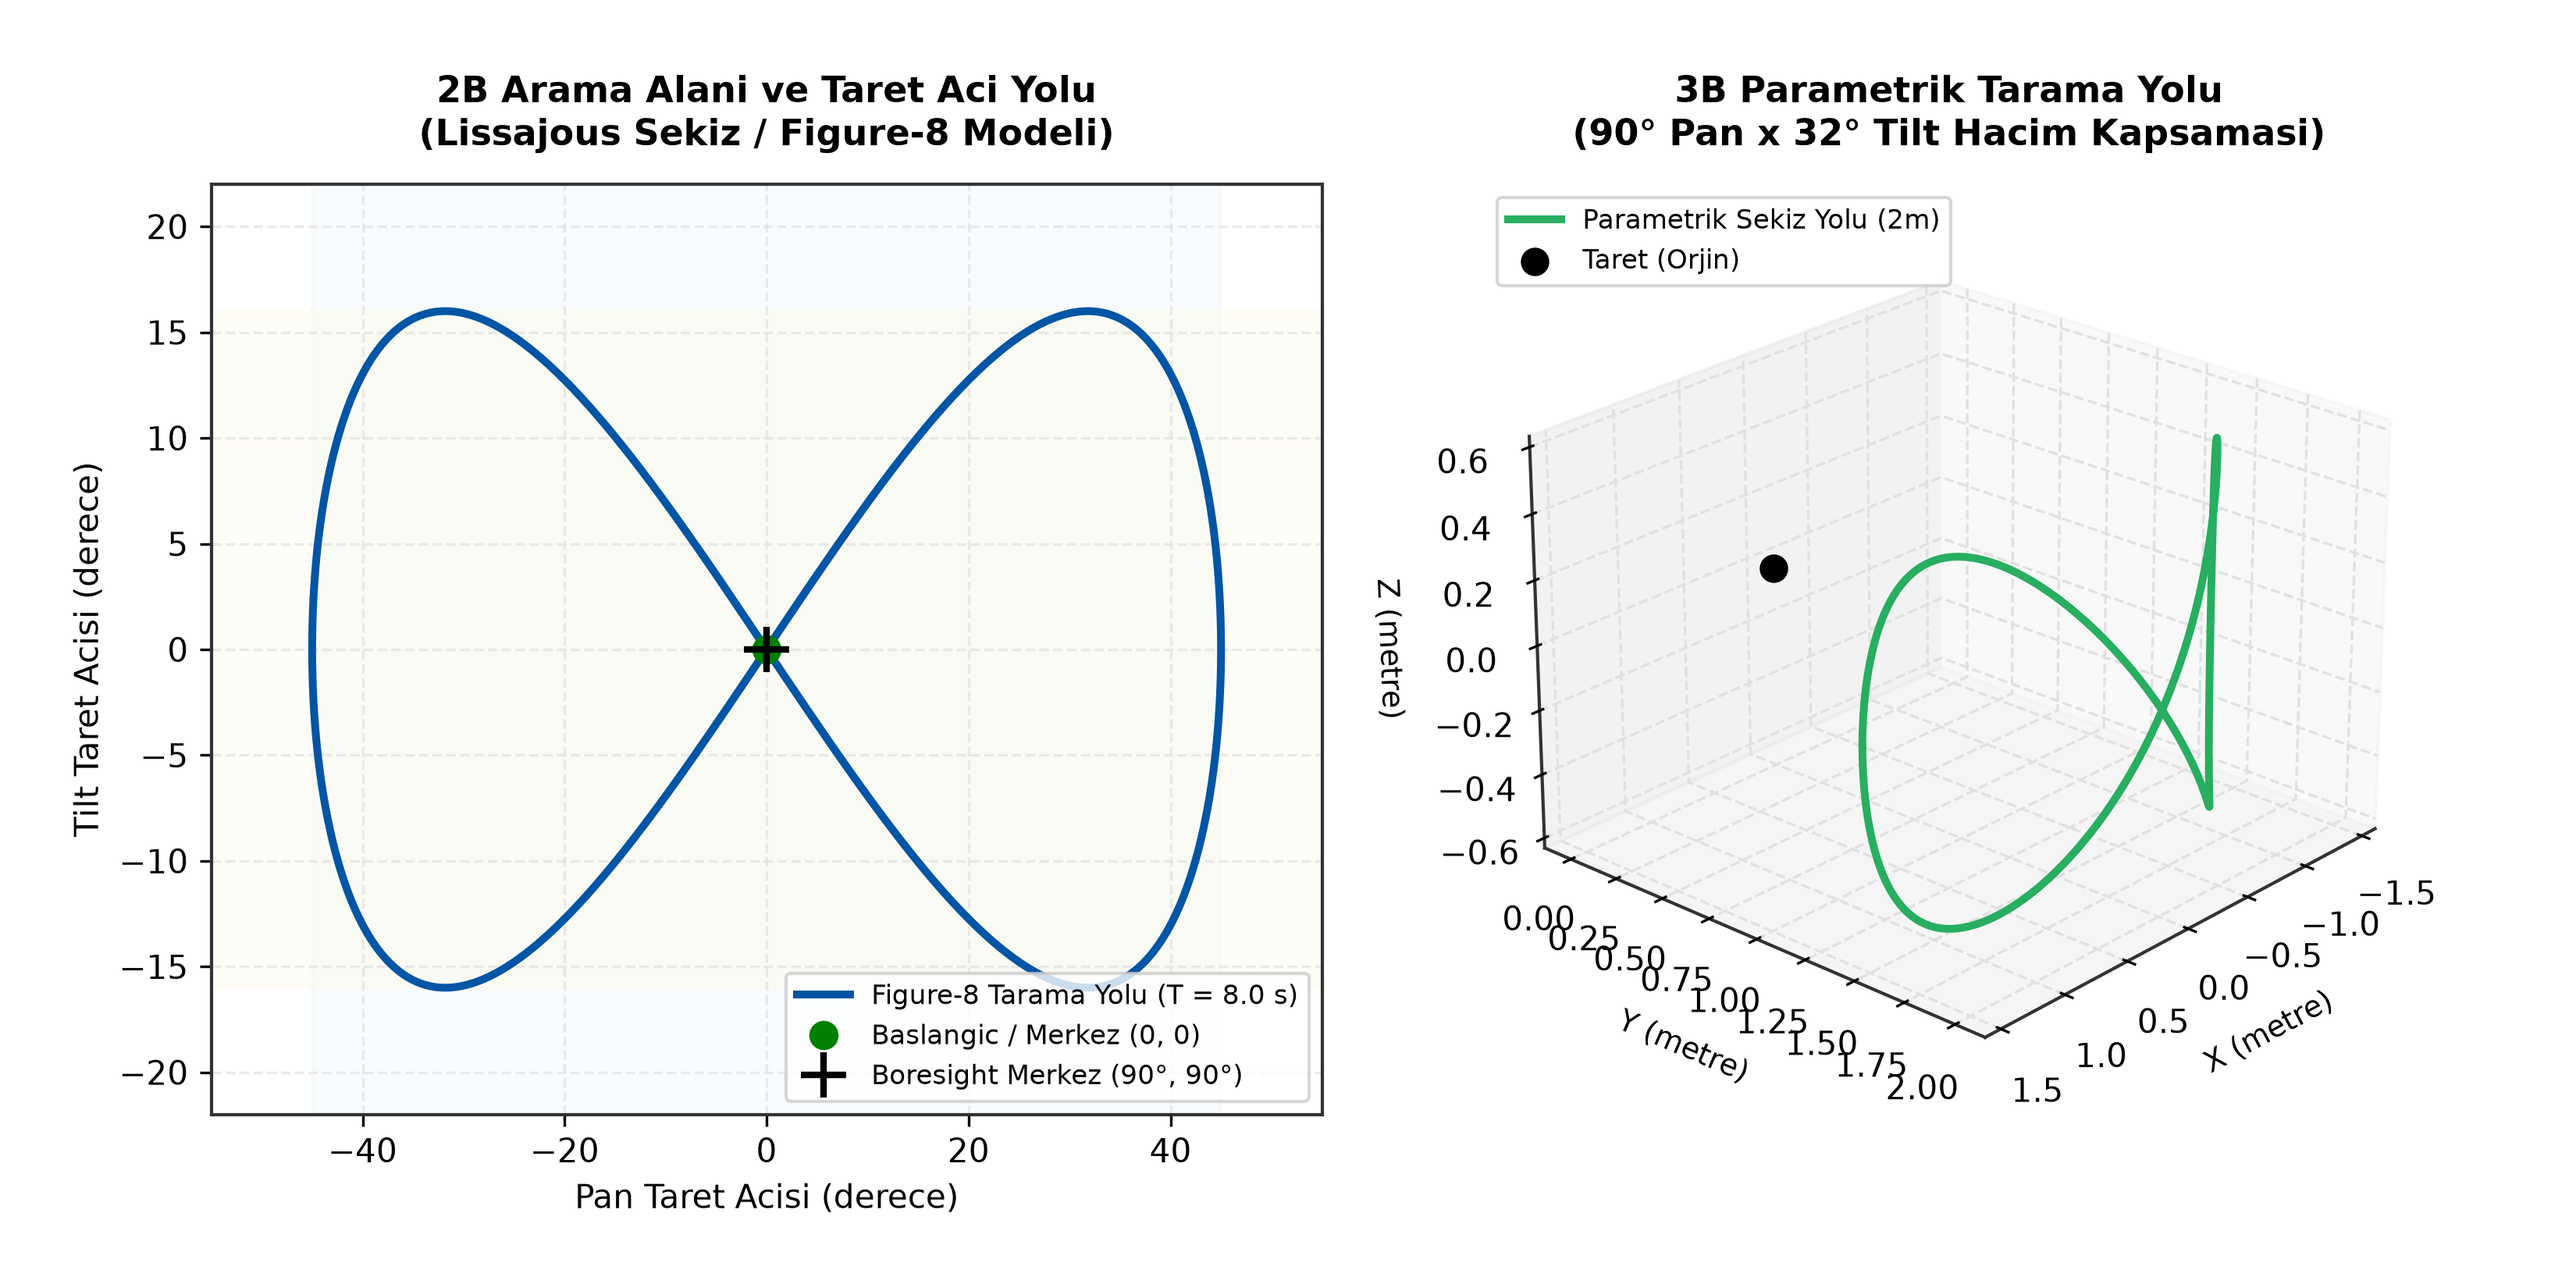
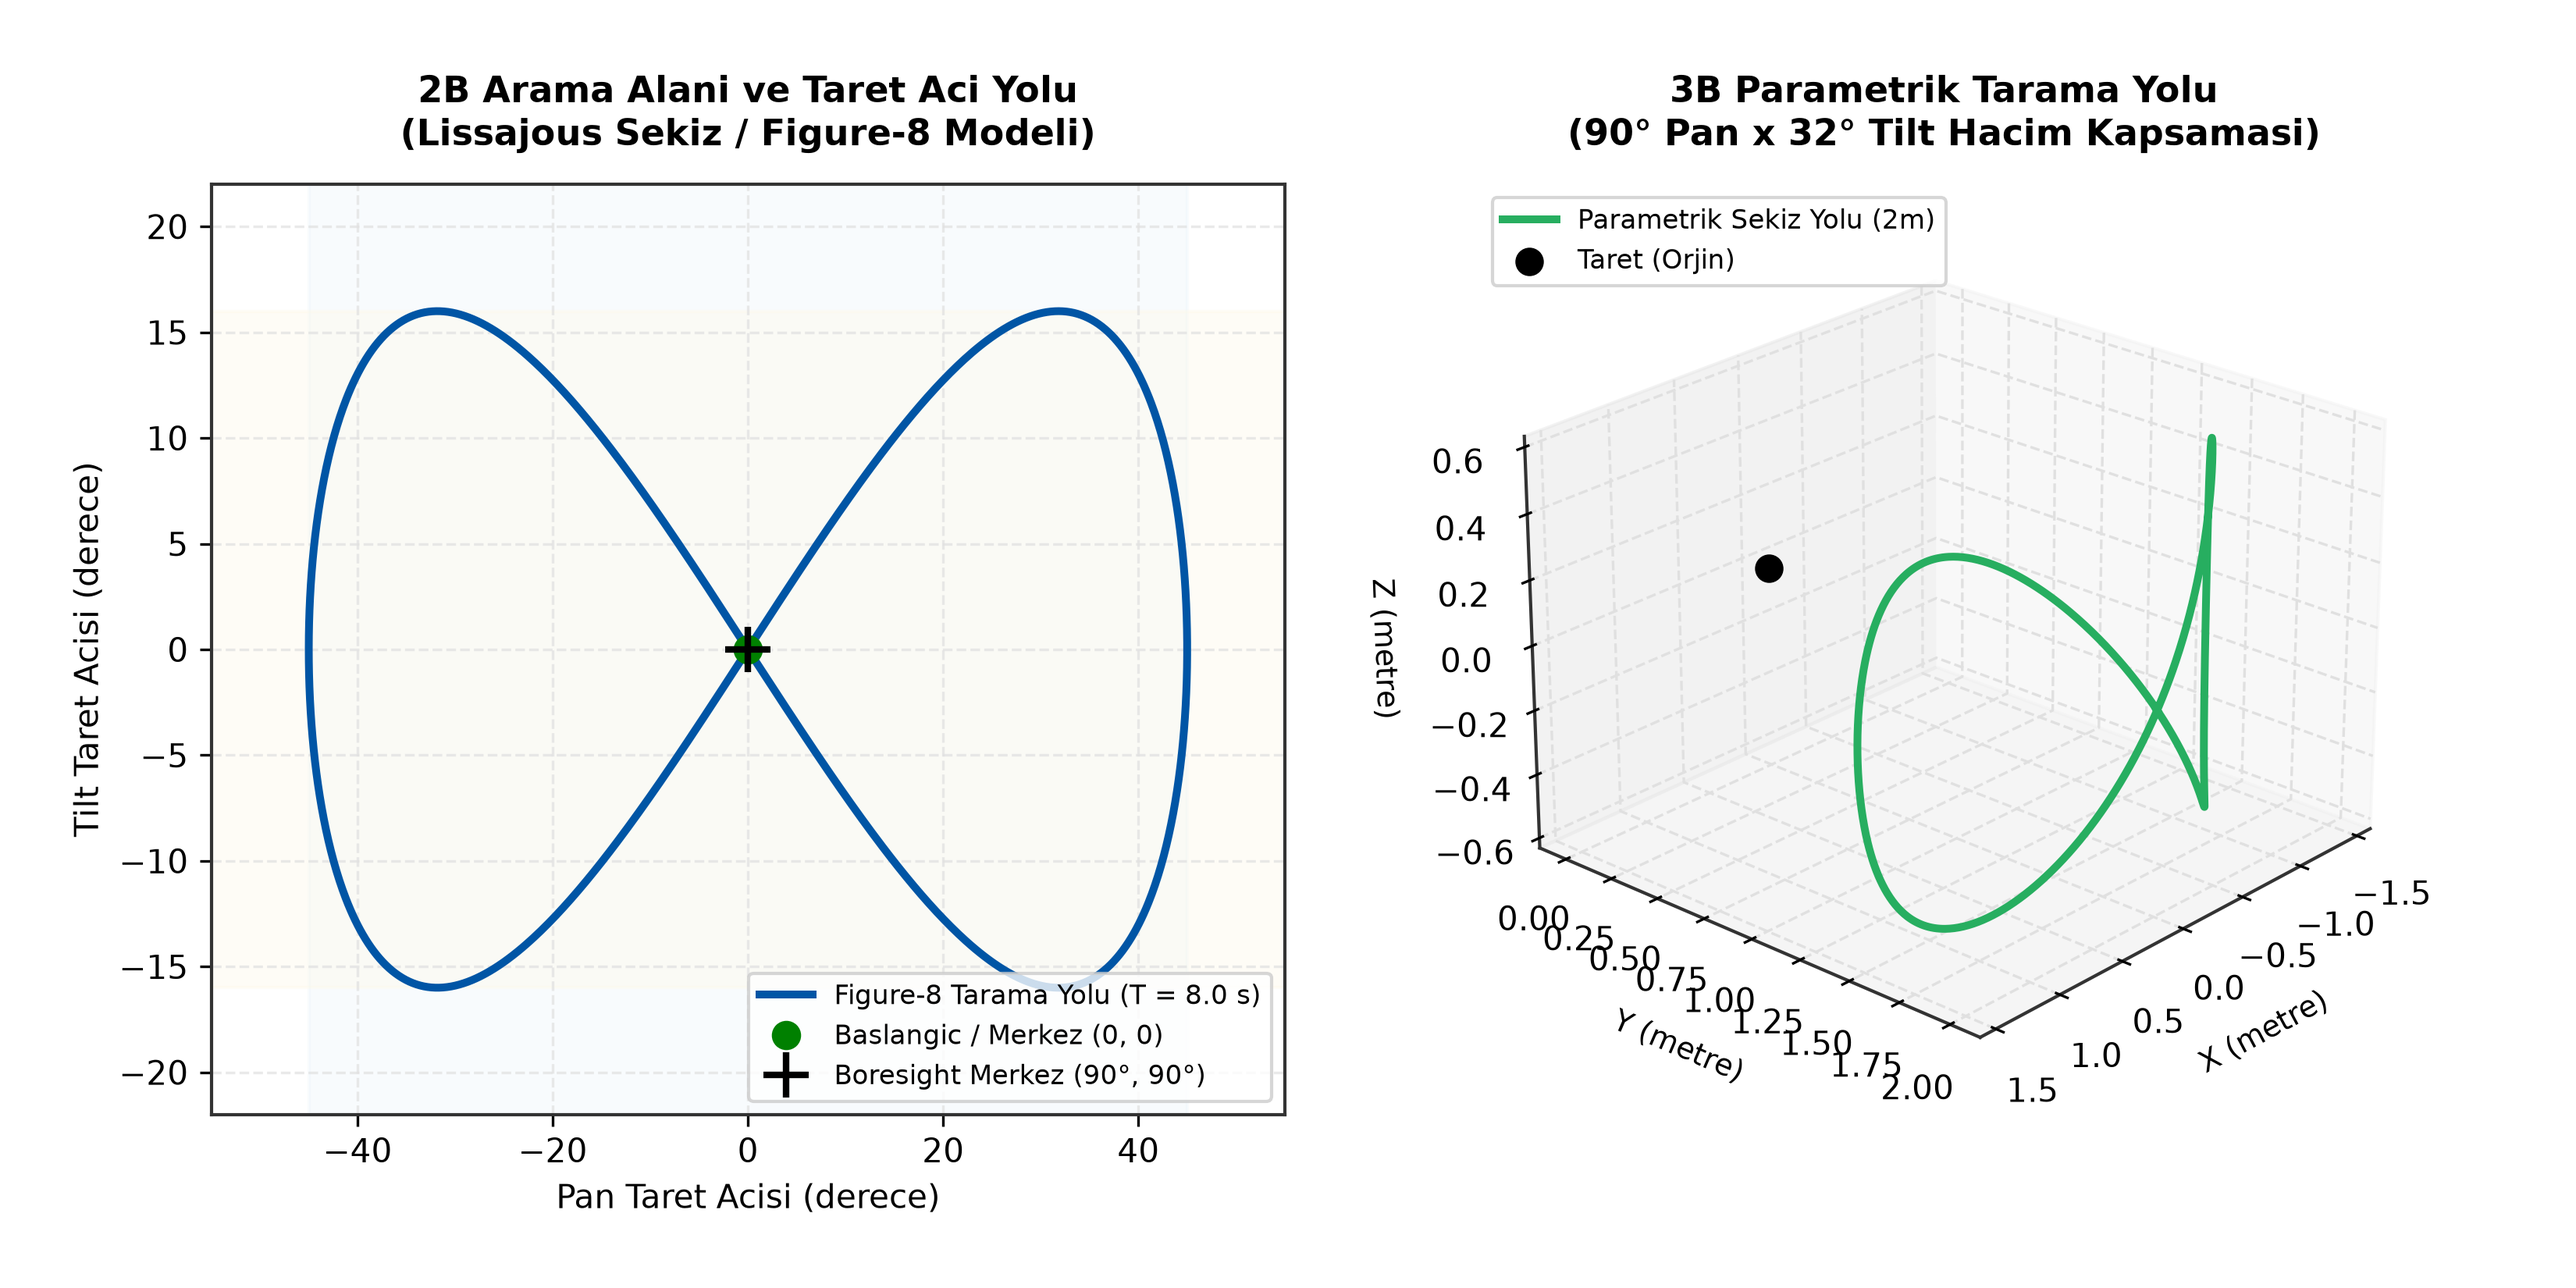
fix(analysis): label fig7/fig8 as simulations and regenerate figures
Both figures are produced by the closed-loop simulator in
analysis/plot_tuned_system.py (seeded with np.random.seed), yet the file names
claimed real-hardware measurements. Rename them to fig7_sim_still_lock and
fig8_sim_moving_tracking and note the simulation origin in the README table.

Regenerate every figure with the current script so the tracked images match
the code that produces them.

diff --git a/analysis/plot_tuned_system.py b/analysis/plot_tuned_system.py
@@ -605,7 +605,7 @@ ax_s2.legend(loc="upper right", framealpha=0.92, fontsize=8.8)
 ax_s2.set_ylim(-1.5, 1.8)
 
 plt.tight_layout()
-safe_savefig(fig7, FIG_DIR / "fig7_real_hardware_still_lock.png")
+safe_savefig(fig7, FIG_DIR / "fig7_sim_still_lock.png")
 plt.close(fig7)
 
 
@@ -686,7 +686,7 @@ ax_m2.legend(loc="upper right", framealpha=0.92, fontsize=8.8)
 ax_m2.set_ylim(-3.5, 3.5)
 
 plt.tight_layout()
-safe_savefig(fig8, FIG_DIR / "fig8_real_hardware_moving_tracking.png")
+safe_savefig(fig8, FIG_DIR / "fig8_sim_moving_tracking.png")
 plt.close(fig8)
 
 

diff --git a/README.md b/README.md
@@ -540,8 +540,8 @@ Benzetim, 80 ms taşıma gecikmesi ve dinamik eyleyici lag'i altında dört tohu
 | `fig4_tuned_dynamic_tracking.png` | Sinüzoidal hedefte pan/tilt takip ve hata |
 | `fig5_tuned_lissajous_coverage.png` | Figure-8 devriye yörüngesi ve 3B tarama hacmi |
 | `fig6_tuned_ballistic_characteristics.png` | Mesafeye göre uçuş süresi ve süper-elevasyon |
-| `fig7_real_hardware_still_lock.png` | Sabit hedefte kapalı çevrim kilit ve motor sessizliği |
-| `fig8_real_hardware_moving_tracking.png` | Manevralı hedefte takip ve kilit kararlılığı |
+| `fig7_sim_still_lock.png` | Sabit hedefte kapalı çevrim kilit ve motor sessizliği (benzetim) |
+| `fig8_sim_moving_tracking.png` | Manevralı hedefte takip ve kilit kararlılığı (benzetim) |
 | `fig9_system_identification.png` | Sentetik FOPDT/SOPDT sistem tanımlama ve kök-yer eğrisi |
 | `kalman_tracking_performance.png` | Kalman konum/hız doğruluğu, inovasyon dağılımı ve KPI tablosu |
 
@@ -557,9 +557,9 @@ Benzetim, 80 ms taşıma gecikmesi ve dinamik eyleyici lag'i altında dört tohu
 
 ![Balistik Karakteristik](analysis/figures/fig6_tuned_ballistic_characteristics.png)
 
-![Sabit Hedef Kilit Kararlılığı](analysis/figures/fig7_real_hardware_still_lock.png)
+![Sabit Hedef Kilit Kararlılığı](analysis/figures/fig7_sim_still_lock.png)
 
-![Manevralı Hedef Takibi](analysis/figures/fig8_real_hardware_moving_tracking.png)
+![Manevralı Hedef Takibi](analysis/figures/fig8_sim_moving_tracking.png)
 
 ![Sistem Tanımlama](analysis/figures/fig9_system_identification.png)
 
